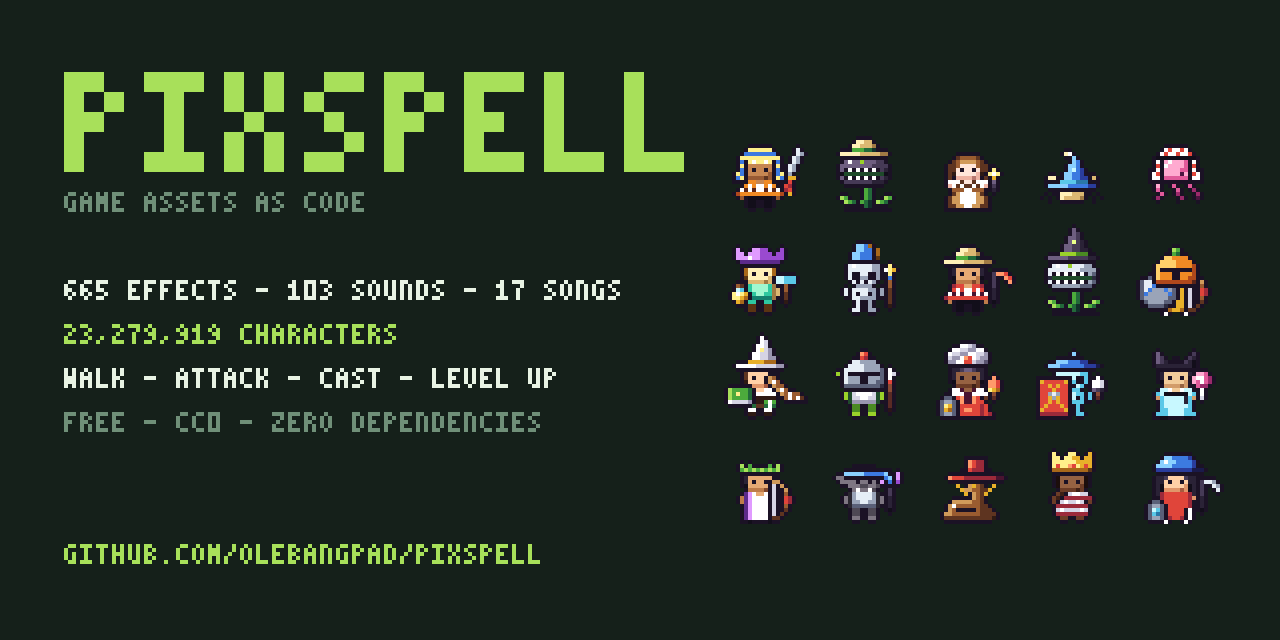
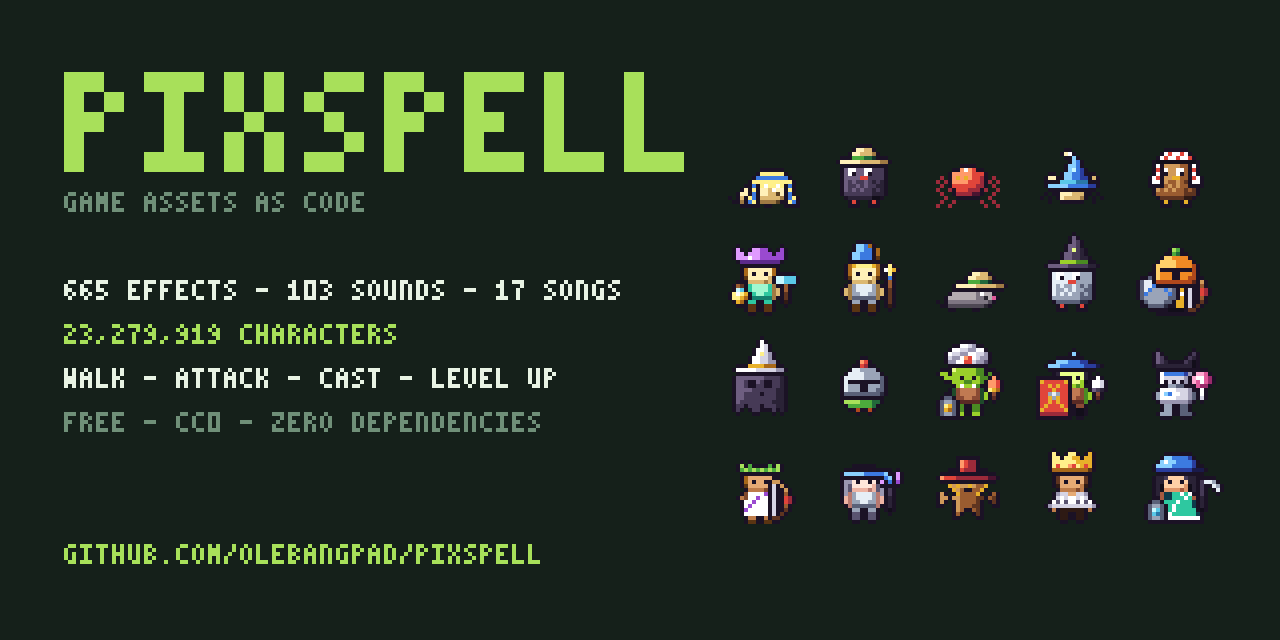
Checks after tall characters: demo game, maker height, random mix
- demo game: keeps skin, hair and height from the maker link, draws every
  frame from its bottom center (tall heroes stand on the ground), and its
  'you are playing as' line says spell.char, not the old dog.char
- maker: the Height row is a preference that rolls and presets keep, even
  after rolling a monster that can't be tall
- spell.char.random: traditional outfits count once (like animals and
  monsters), fantasy humanoids three times: about 25% / 22% / 53%
- tall hanbok repeats its plain skirt row (no pale stripe)

Snapshots: the 12 random-seed characters and tall24:hanbok changed, as
intended; nothing else.

Claude-Session: https://claude.ai/code/session_013Rj4NoHHBCJKtc1p1hmg9Y

diff --git a/web/maker.js b/web/maker.js
@@ -26,7 +26,8 @@ let history = []
 let seed = null
 let action = null // null = idle
 let element = null
-let preview = [] // what the stage plays: always 32x32 so the character never jumps in size
+let preview = [] // what the stage plays: 32 wide, as tall as the character needs
+let heightPref = null // the height picked in the Height row; rolls and presets keep it (it only applies to people)
 
 const short = (id, kind) => id && id.replace(kind === 'head' ? /^hat-/ : /^held-/, '')
 const anchorsOf = (body) => looks[body].def.anchors
@@ -150,7 +151,7 @@ function worldPicker() {
   // a preset swaps the clothes and gear but keeps the height you picked
   const same = (w) => JSON.stringify(cleanSpec({ ...fullSpec(w.spec), height: spec.height })) === JSON.stringify(cleanSpec(spec))
   const strip = h('div', { class: 'strip' }, spell.char.world.map((w) => tile(spell.char(w.spec), `${w.name} (${w.region})`, same(w),
-    () => { spec = { ...fullSpec(w.spec), ...(spec.height ? { height: spec.height } : {}) }; seed = null; refresh() })))
+    () => { spec = { ...fullSpec(w.spec), ...(heightPref ? { height: heightPref } : {}) }; seed = null; refresh() })))
   const now = spell.char.world.find(same)
   return h('div', { class: 'picker' },
     h('div', { class: 'picker-head' }, h('b', {}, 'Around the world'), h('span', { class: 'muted' }, now ? `${now.name} · ${now.region}` : `${spell.char.world.length} ready-made`)),
@@ -165,7 +166,7 @@ function heightPicker() {
     h('div', { class: 'picker-head' }, h('b', {}, 'Height'), h('span', { class: 'muted' }, ok ? (now === 16 ? '16 px (chibi)' : `${now} px`) : `${spec.body} keeps its size`)),
     h('div', { class: 'seg' }, [16, 20, 24, 28, 32].map((v) => h('button', {
       'aria-pressed': String(now === v), disabled: !ok, title: v === 16 ? 'As drawn (chibi)' : `${v} px tall`,
-      onclick: () => { if (v === 16) delete spec.height; else spec.height = v; seed = null; refresh() },
+      onclick: () => { heightPref = v === 16 ? null : v; if (heightPref) spec.height = v; else delete spec.height; seed = null; refresh() },
     }, String(v)))),
   )
 }
@@ -212,7 +213,7 @@ const dogLabel = (s) => [s.body, s.hat && short(s.hat, 'head'), s.hand && short(
 function roll(n = 1) {
   const fresh = Array.from({ length: n }, () => {
     seed = Math.floor(Math.random() * 1e6)
-    return spell.char.random(seed)
+    return { ...spell.char.random(seed), ...(heightPref ? { height: heightPref } : {}) }
   })
   spec = { ...fresh[fresh.length - 1] }
   history = [...fresh.reverse(), ...history].slice(0, 32)
@@ -230,6 +231,7 @@ export function initMaker({ openInStudio }) {
       action = spell.action.list.includes(s.action) || /^walk-(down|up|left|right)$/.test(s.action) ? s.action : null
       element = ELEMENTS[s.element] ? s.element : null
       spec = s
+      if (s.height > 16) heightPref = s.height
     }
   } catch { /* ignore broken links */ }
 

diff --git a/src/character.js b/src/character.js
@@ -54,7 +54,7 @@ function turnedPose(def) {
 export const MIN_HEIGHT = 16, MAX_HEIGHT = 32
 const GROW = {
   hero: [8, 12], heroine: [8, 12], goblin: [8, 12], skeleton: [9, 12], robot: [10, 12],
-  hanbok: [11, 13], seonbi: [11, 12], kimono: [9, 13], samurai: [11, 12], hanfu: [11, 13], aodai: [10, 12], sari: [10, 12],
+  hanbok: [11, 12], seonbi: [11, 12], kimono: [9, 13], samurai: [11, 12], hanfu: [11, 13], aodai: [10, 12], sari: [10, 12],
   thobe: [10, 12], kente: [9, 12], toga: [10, 12], kilt: [8, 12], dirndl: [10, 12], poncho: [9, 13], deel: [11, 12],
 }
 const stretchedPoses = new Map()
@@ -207,9 +207,11 @@ export function createCharacters(looks) {
   char.random = (seed, { outfit = 0.5 } = {}) => {
     const r = rng(seed)
     const pick = (list) => list[Math.floor(r() * list.length)]
-    // pick a base body first (humanoids weighted up: they can hold gear), then one of its color variants
+    // pick a base body first, then one of its color variants: the fantasy humanoids weighted up (they hold gear),
+    // people in traditional clothing and every animal or monster once each, so a roll mixes all three
     const bases = [...new Set(parts.body.map((id) => looks[id].def.id))]
-    const weighted = bases.flatMap((b) => Array(looks[b].def.anchors.hand ? 3 : 1).fill(b))
+    const weight = (b) => (looks[b].def.anchors.hand && !looks[b].def.tags.includes('world') ? 3 : 1)
+    const weighted = bases.flatMap((b) => Array(weight(b)).fill(b))
     const base = pick(weighted)
     const body = pick(parts.body.filter((id) => looks[id].def.id === base))
     const anchors = looks[body].def.anchors

diff --git a/web/game.js b/web/game.js
@@ -12,7 +12,8 @@ function heroFromLink() {
     const s = decode(raw)
     if (!looks[s.body] || !Object.keys(looks[s.body].def.anchors).length) return null
     const out = { body: s.body }
-    for (const k of ['hat', 'hand', 'offhand', 'A']) if (s[k]) out[k] = s[k]
+    for (const k of ['hat', 'hand', 'offhand', 'A', 'B', 'C']) if (s[k]) out[k] = s[k]
+    if (Number.isInteger(s.height) && s.height > 16 && s.height <= 32) out.height = s.height
     return out
   } catch {
     return null
@@ -21,8 +22,9 @@ function heroFromLink() {
 
 const short = (id) => id?.replace(/^(hat|held)-/, '')
 function showHero(spec) {
-  const opts = ['hat', 'hand', 'offhand', 'A'].filter((k) => spec[k]).map((k) => `${k}: '${k === 'A' ? spec[k] : short(spec[k])}'`)
-  $('#hero-code').textContent = `// you are playing as\ndog.char('${spec.body}'${opts.length ? `, { ${opts.join(', ')} }` : ''})`
+  const opts = ['hat', 'hand', 'offhand', 'A', 'B', 'C'].filter((k) => spec[k]).map((k) => `${k}: '${/^[ABC]$/.test(k) ? spec[k] : short(spec[k])}'`)
+  if (spec.height) opts.push(`height: ${spec.height}`)
+  $('#hero-code').textContent = `// you are playing as\nspell.char('${spec.body}'${opts.length ? `, { ${opts.join(', ')} }` : ''})`
   $('#edit-hero').href = `./#c=${encode(spec)}`
   writeHash('c', encode(spec))
 }

diff --git a/web/quest.js b/web/quest.js
@@ -365,20 +365,19 @@ export function createGame(canvas, { spec, auto = true, seed = 1, onHero, onSoun
     const k = kit(a.spec, g.hero.element)
     const sx = Math.round(a.x), sy = Math.round(a.y) + HUD
     ctx.drawImage(shadow, sx - 6, sy - 2)
-    let img, big = true
+    let img
     if (a.state === 'attack') img = frameOf(k.attack[a.dir === 'left' || (a.dir !== 'right' && a.lastH === 'left') ? 'left' : 'right'], a.t, false)
     else if (a.state === 'hit' || a.state === 'dying') img = frameOf(a.crit ? k.crit : k.hit, a.t, false)
     else if (a.state === 'hurt') img = frameOf(k.hurt, a.t, false)
     else if (a.state === 'dead') img = frameOf(k.death, a.t, false)
     else if (a.state === 'levelup') img = frameOf(k.levelup, a.t, false)
     else {
-      big = false
       const w = k.walk[a.dir]
       img = isHero && !a.moving ? w.imgs[0] : frameOf(w, g.time + (a.x % 7) / 10)
     }
     if (isHero && a.invuln && a.state === 'walk' && Math.floor(g.time * 12) % 2) return
-    if (big) ctx.drawImage(img, sx - 16, sy - 31)
-    else ctx.drawImage(img, sx - 12, sy - 23)
+    // feet at the bottom center of every frame (24x24 walks, 32x32 actions, taller for a taller spec.height)
+    ctx.drawImage(img, sx - (img.width >> 1), sy - img.height + 1)
   }
 
   function drawHud() {

diff --git a/docs/devlog.md b/docs/devlog.md
@@ -1261,3 +1261,20 @@ The ask: characters that are a bit longer top to bottom, not only the 16 px chib
 - **Checks:** a test checks sizes, origins, the unchanged head, the sword following the hand, monsters keeping their
   size, the error for 40 and the pack metadata. There are 26 new snapshot hashes, and no existing one changed.
 
+### More checks after the tall characters
+
+- **Found: the demo game dropped things you chose in the maker.** "Play as this character" kept only the hat, held
+  items and outfit color, so a skin tone, hair color or height disappeared on the way. It also drew everyone at fixed
+  24x24 and 32x32 offsets, so a tall hero would have floated a row per extra pixel. And its "you are playing as" line
+  still said `dog.char`.
+  **Fixed:** it keeps B, C and height, draws every frame from its bottom center, and says `spell.char`. I played it as a
+  24 px brown-skinned samurai in Chromium and it stands and swings in the right place.
+- **Found: the maker forgot the chosen height.** Rolling a monster (which can't be tall) dropped the height, so the
+  following rolls came out chibi again. **Fixed:** the Height row sets a preference that rolls and presets keep.
+- **Found: random characters were mostly traditional outfits.** Every humanoid counted three times, and 14 of the 19
+  humanoids are now outfits, so 9 of 12 rolls were outfits. **Fixed:** outfits count once, like animals and monsters.
+  Over 3,000 seeds that gives about 25% fantasy heroes, 22% outfits and 53% animals and monsters.
+- **Found: the tall hanbok had a pale stripe down the chima.** It repeated a skirt row with a highlight in it.
+  **Fixed:** it repeats the plain row above.
+- **Fine:** all six pages, no sideways scroll on a phone; every humanoid at 32 px.
+

diff --git a/CHANGELOG.md b/CHANGELOG.md
@@ -23,7 +23,8 @@ patch versions never do. Art changes that alter how a sprite looks are listed he
   áo dài, sari, thobe, kente, toga, kilt, dirndl, poncho, deel), 14 hats from the same places, 8 weapons with their own
   attack styles and 3 shields; `spell.char.world` (26 ready-made people) and 6 skin tones (`spell.char.skins`) for any
   humanoid. Random characters now vary skin tone. The maker has "Around the world" and "Skin" rows. 23,279,919
-  combinations. Random seeds give different characters than before (more bodies to draw from).
+  combinations. Random seeds give different characters than before: more bodies to draw from, and the fantasy
+  humanoids count three times, outfits, animals and monsters once each.
 - **Animations are easy to save:** every frame list (`walk`, `action`, `status`, `fx`, `frames`, `char.frames`) has
   `.save(path)` (an animated PNG at its own speed), `.toDataURL()` (an `<img>` that plays), `.toAPNG()`, `.toSheet()` and
   `.scale(n)`, and `spell.frames()` / `spell.char.frames()` now carry `.fps` and `.loop` too.
